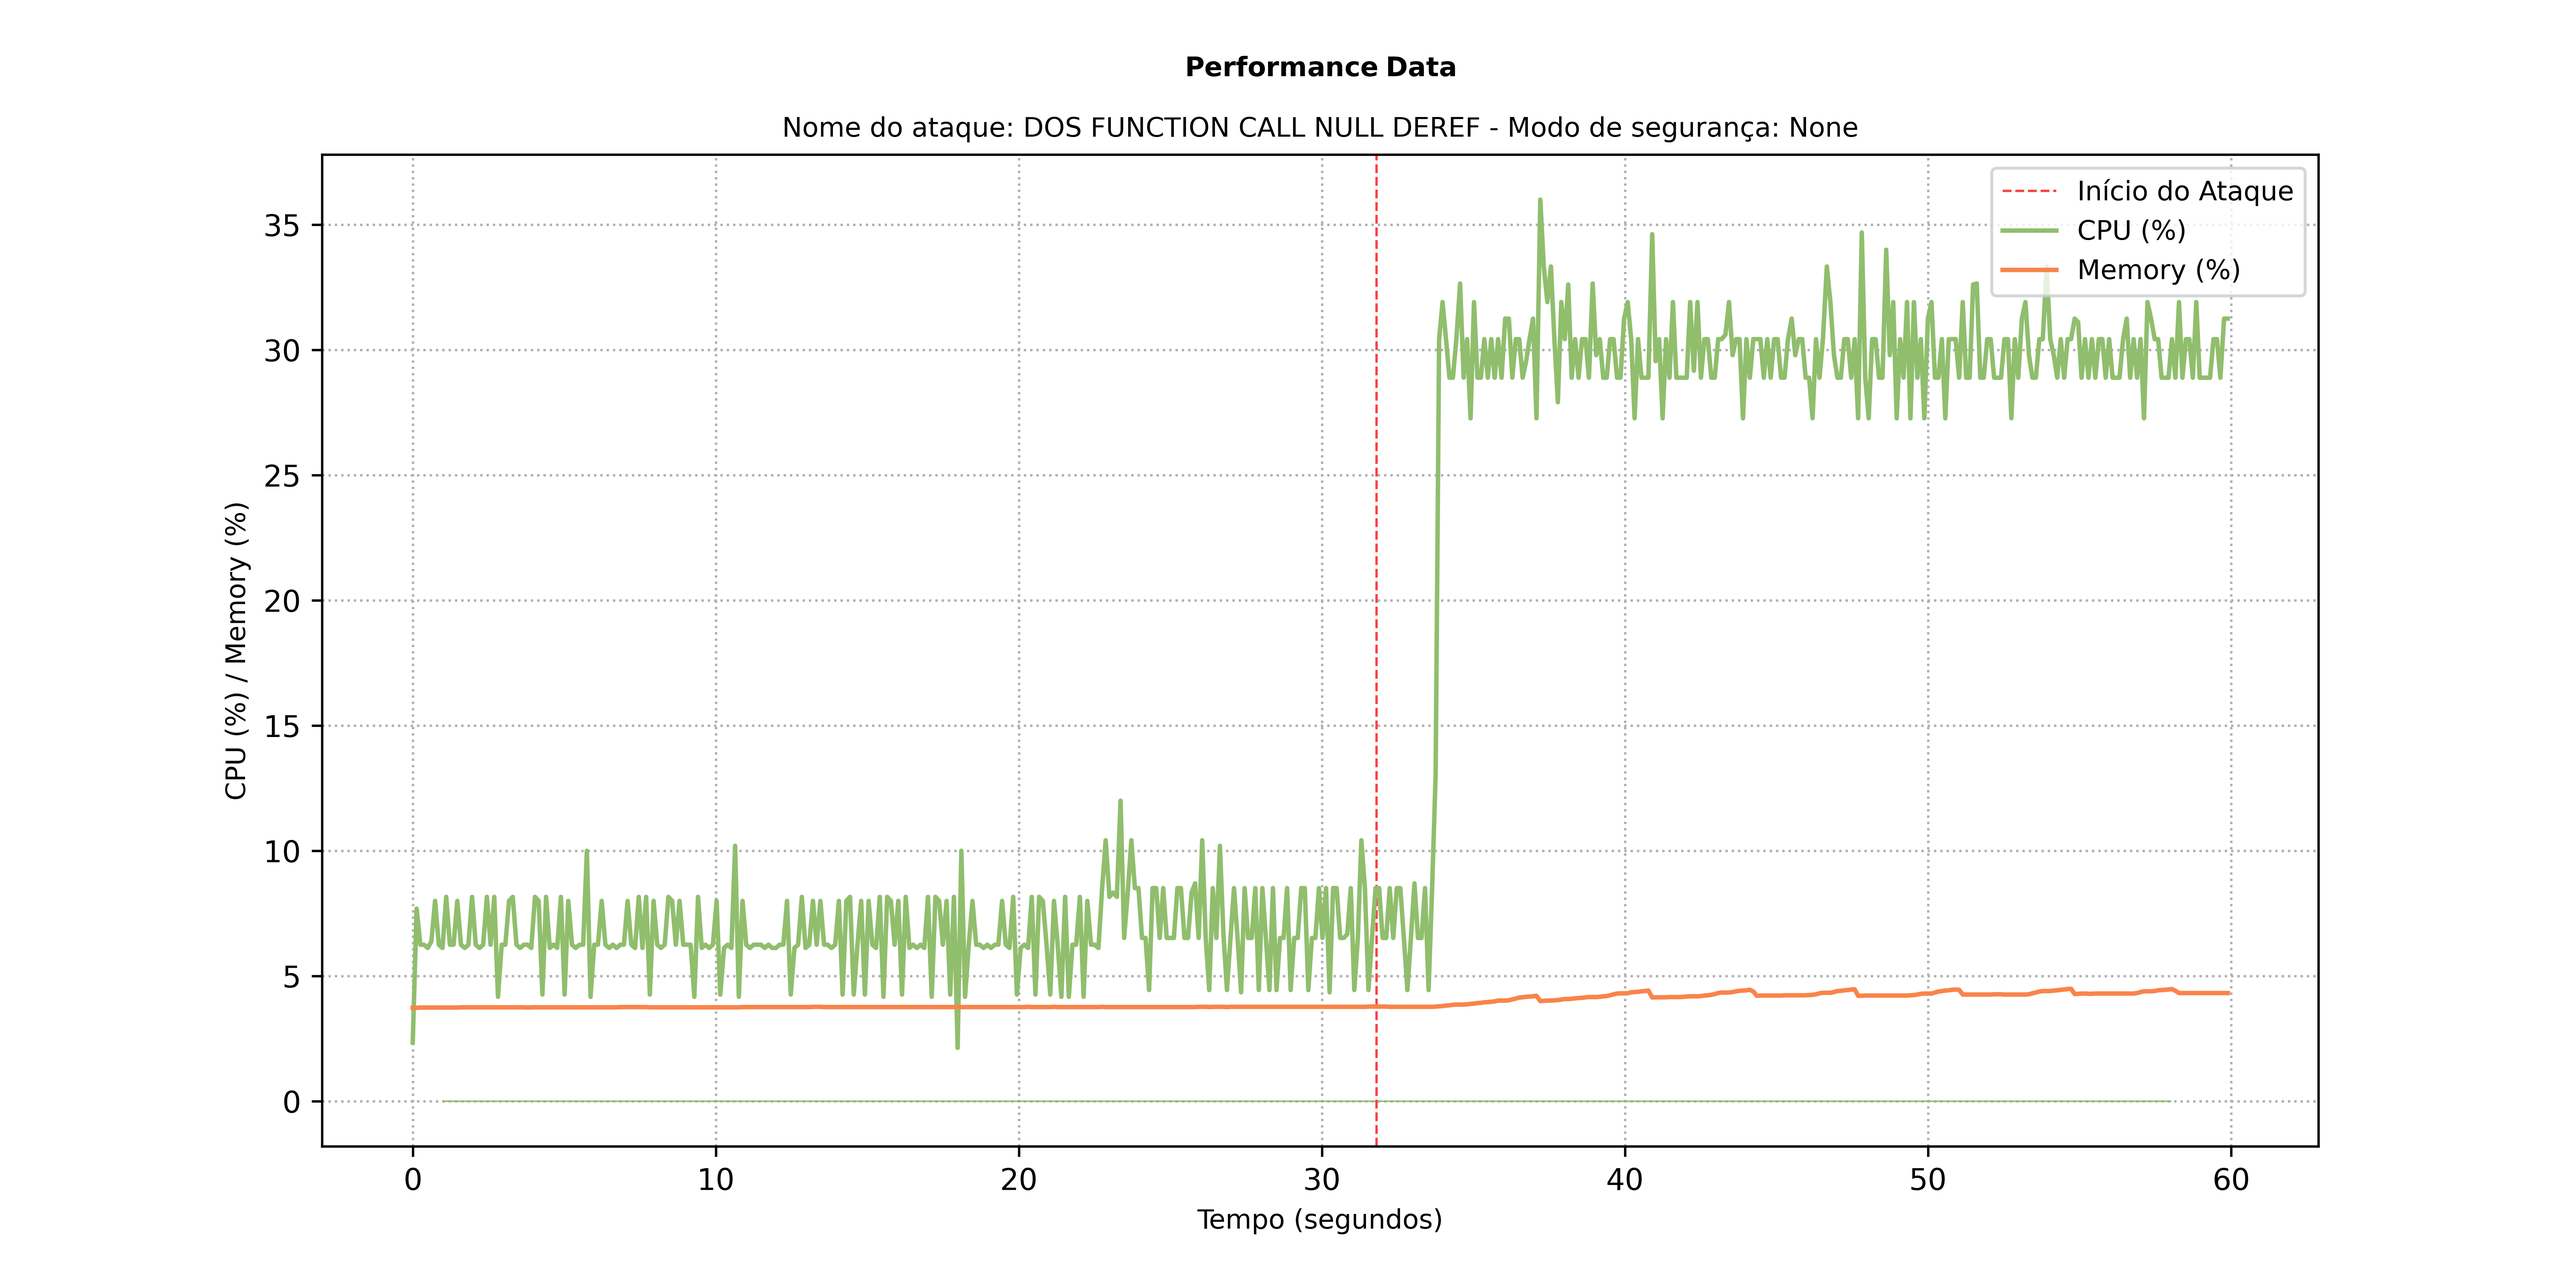
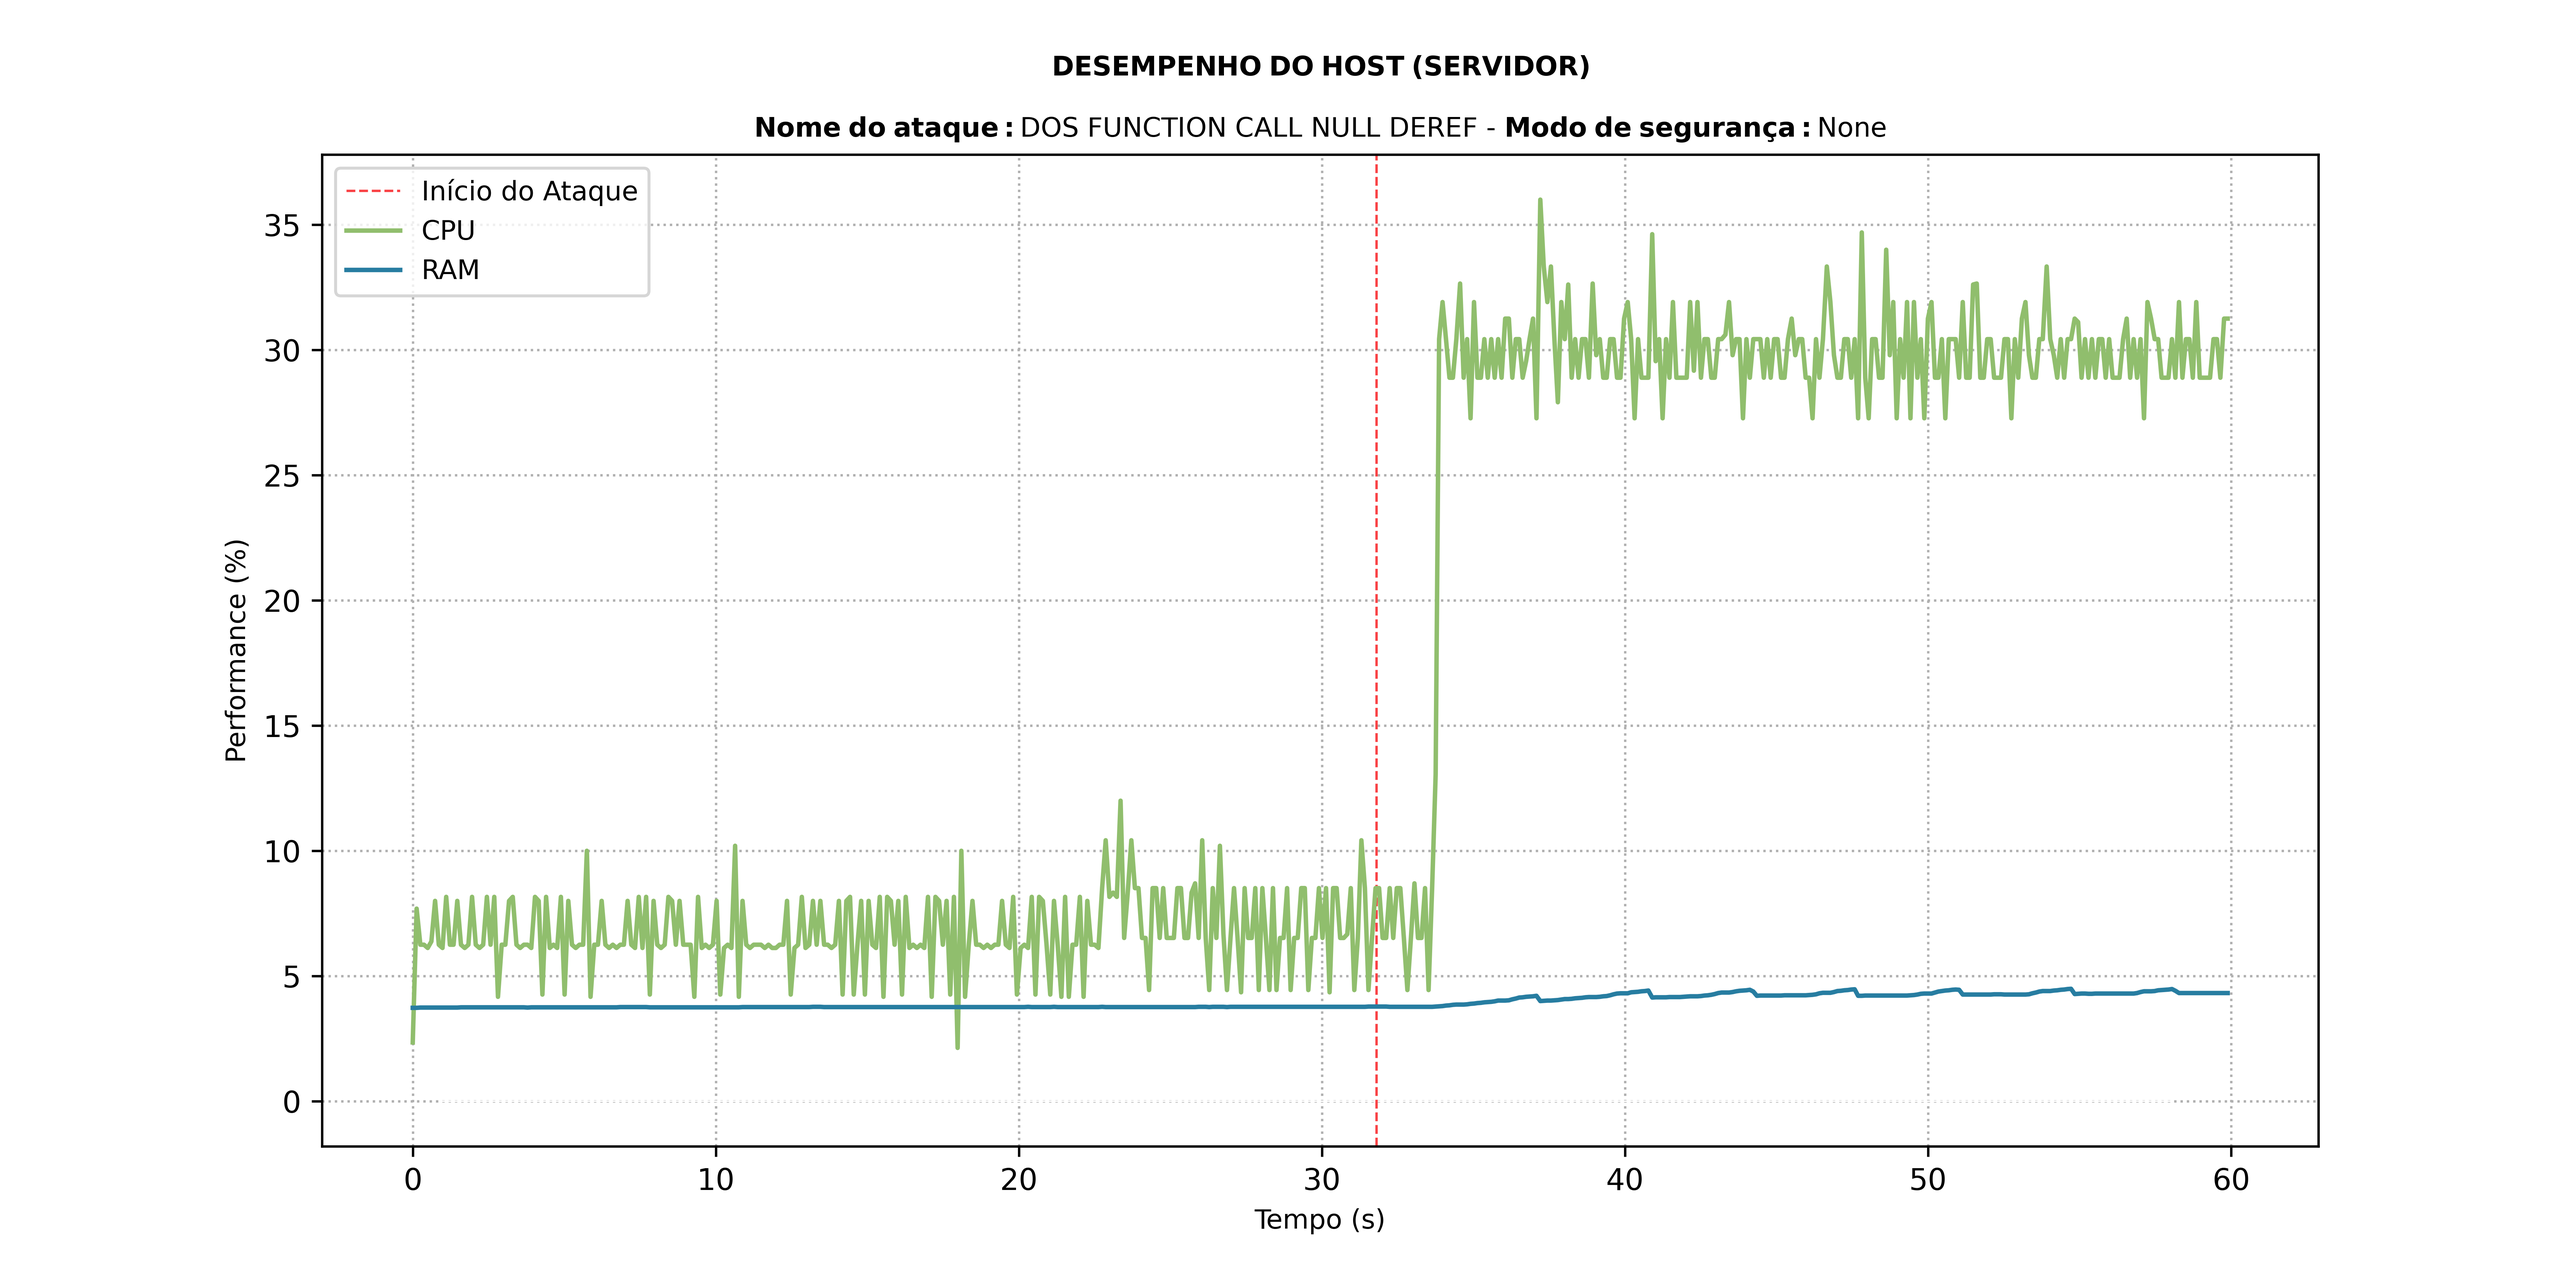
refactor(plot): translate the plot information

diff --git a/uanalyser/plot/graphics.py b/uanalyser/plot/graphics.py
@@ -168,17 +168,17 @@ def performance_data_axle(
                     performance_data['CPU (%)'],
                     color='#90BE6D',
                     linestyle='-',
-                    label='CPU (%)',
+                    label='CPU',
                 )
                 aux.plot(
                     performance_data['Timestamp'],
                     performance_data['Memory (%)'],
-                    color='#F9844A',
+                    color='#277DA1',
                     linestyle='-',
-                    label='Memory (%)',
+                    label='RAM',
                 )
-                aux.set_ylabel('CPU (%) / Memory (%)', fontsize=9)
-                aux.legend(loc='upper right', fontsize=9)
+                aux.set_ylabel('Performance (%)', fontsize=9)
+                aux.legend(loc='upper left', fontsize=9)
             else:
                 print(
                     f'Performance data in {csv_file} is missing required columns.'
@@ -216,7 +216,7 @@ def plot_performance_data(
         >>> plot_performance_data([1, 2, 3, 4, 5, 6], {'Type': 'None', 'Name': 'DOS ATTACK EXAMPLE', 'Relative time': 32.341966, 'Packet index': 1966})  # doctest: +SKIP
     """
     fig, ax1 = plt.subplots(figsize=(12, 6))
-    ax1.plot(seconds, [0] * len(seconds), color='#90BE6D', linewidth=0.5)
+    ax1.plot(seconds, [0] * len(seconds), color='w', linewidth=0.5)
     if 'Relative time' in attack and attack['Relative time']:
         ax1.axvline(
             x=attack['Relative time'],
@@ -225,13 +225,15 @@ def plot_performance_data(
             linewidth=0.8,
             label='Início do Ataque',
         )
-    ax1.set_xlabel('Tempo (segundos)', fontsize=9)
-    ax1.set_ylabel('Performance Data', fontsize=9)
+    ax1.set_xlabel('Tempo (s)', fontsize=9)
+    ax1.set_ylabel('Performance (%)', fontsize=9)
     ax1.set_title(
-        r'$\bf{Performance\;Data}$'
+        r'$\bf{DESEMPENHO\;DO\;HOST\;(SERVIDOR)}$'
         + '\n\n'
-        + f'Nome do ataque: {attack["Name"]} - '
-        + f'Modo de segurança: {attack["Type"]}',
+        + r'$\bf{Nome\;do\;ataque:}$'
+        + f'{attack["Name"]} - '
+        + r'$\bf{Modo\;de\;segurança:}$'
+        + f'{attack["Type"]}',
         fontsize=9,
     )
 
@@ -290,16 +292,18 @@ def plot_throughput(
             linewidth=0.8,
             label='Início do Ataque',
         )
-    ax1.set_xlabel('Tempo (segundos)', fontsize=9)
+    ax1.set_xlabel('Tempo (s)', fontsize=9)
     ax1.set_ylabel('Throughput (KBps)', fontsize=9)
     ax1.set_title(
         r'$\bf{Throughput}$'
         + '\n\n'
-        + f'Nome do ataque: {attack["Name"]} - '
-        + f'Modo de segurança: {attack["Type"]}',
+        + r'$\bf{Nome\;do\;ataque:}$'
+        + f'{attack["Name"]} - '
+        + r'$\bf{Modo\;de\;segurança:}$'
+        + f'{attack["Type"]}',
         fontsize=9,
     )
-    ax1.legend(fontsize=9)
+    ax1.legend(loc='upper left', fontsize=9)
     ax1.grid(True, linestyle='dotted')
     ax1 = performance_data_axle(ax1, filename, performance)
     # plt.subplots_adjust(bottom=0.17)
@@ -355,7 +359,7 @@ def plot_round_trip_time_per_packet(
         s=[value * scale_factor for value in normalized_y_values],
         edgecolors='#4D908E',
         linewidths=1,
-        label='Round Trip Time (RTT)',
+        label='RTT Cliente-Servidor',
     )
 
     if attacker_rtts:
@@ -374,7 +378,7 @@ def plot_round_trip_time_per_packet(
             s=[value * scale_factor for value in normalized_attacker_y_values],
             edgecolors='#F3722C',
             linewidths=1,
-            label='Attacker Round Trip Time (RTT)',
+            label='RTT Invasor-Servidor',
         )
 
     if 'Packet index' in attack and attack['Packet index']:
@@ -395,13 +399,15 @@ def plot_round_trip_time_per_packet(
     ax1.yaxis.set_major_formatter(FuncFormatter(log_formatter))
 
     ax1.grid(True, linestyle='--', alpha=0.7)
-    ax1.set_xlabel('Número do pacote', fontsize=9)
+    ax1.set_xlabel('Pacote', fontsize=9)
     ax1.set_ylabel('Round Trip Time', fontsize=9)
     ax1.set_title(
-        r'$\bf{Round\;Trip\;Time}$'
+        r'$\bf{ROUND\;TRIP\;TIME\;(PACOTE)}$'
         + '\n\n'
-        + f'Nome do ataque: {attack["Name"]} - '
-        + f'Modo de segurança: {attack["Type"]}',
+        + r'$\bf{Nome\;do\;ataque:}$'
+        + f'{attack["Name"]} - '
+        + r'$\bf{Modo\;de\;segurança:}$'
+        + f'{attack["Type"]}',
         fontsize=9,
     )
 
@@ -481,7 +487,7 @@ def plot_round_trip_time_per_second(
         s=[value * scale_factor for value in normalized_y_values],
         edgecolors='#4D908E',
         linewidths=1,
-        label='Round Trip Time (RTT) per second',
+        label='RTT Cliente-Servidor',
     )
 
     if attacker_rtts:
@@ -505,7 +511,7 @@ def plot_round_trip_time_per_second(
             s=[value * scale_factor for value in attacker_normalized_y_values],
             edgecolors='#F3722C',
             linewidths=1,
-            label='Attacker Round Trip Time (RTT) per second',
+            label='RTT Invasor-Servidor',
         )
 
     if 'Relative time' in attack and attack['Relative time']:
@@ -528,10 +534,12 @@ def plot_round_trip_time_per_second(
     ax1.set_xlabel('Tempo (s)', fontsize=9)
     ax1.set_ylabel('Round Trip Time', fontsize=9)
     ax1.set_title(
-        r'$\bf{Round\;Trip\;Time}$'
+        r'$\bf{ROUND\;TRIP\;TIME\;(TEMPO)}$'
         + '\n\n'
-        + f'Nome do ataque: {attack["Name"]} - '
-        + f'Modo de segurança: {attack["Type"]}',
+        + r'$\bf{Nome\;do\;ataque:}$'
+        + f'{attack["Name"]} - '
+        + r'$\bf{Modo\;de\;segurança:}$'
+        + f'{attack["Type"]}',
         fontsize=9,
     )
     ax1.legend(
